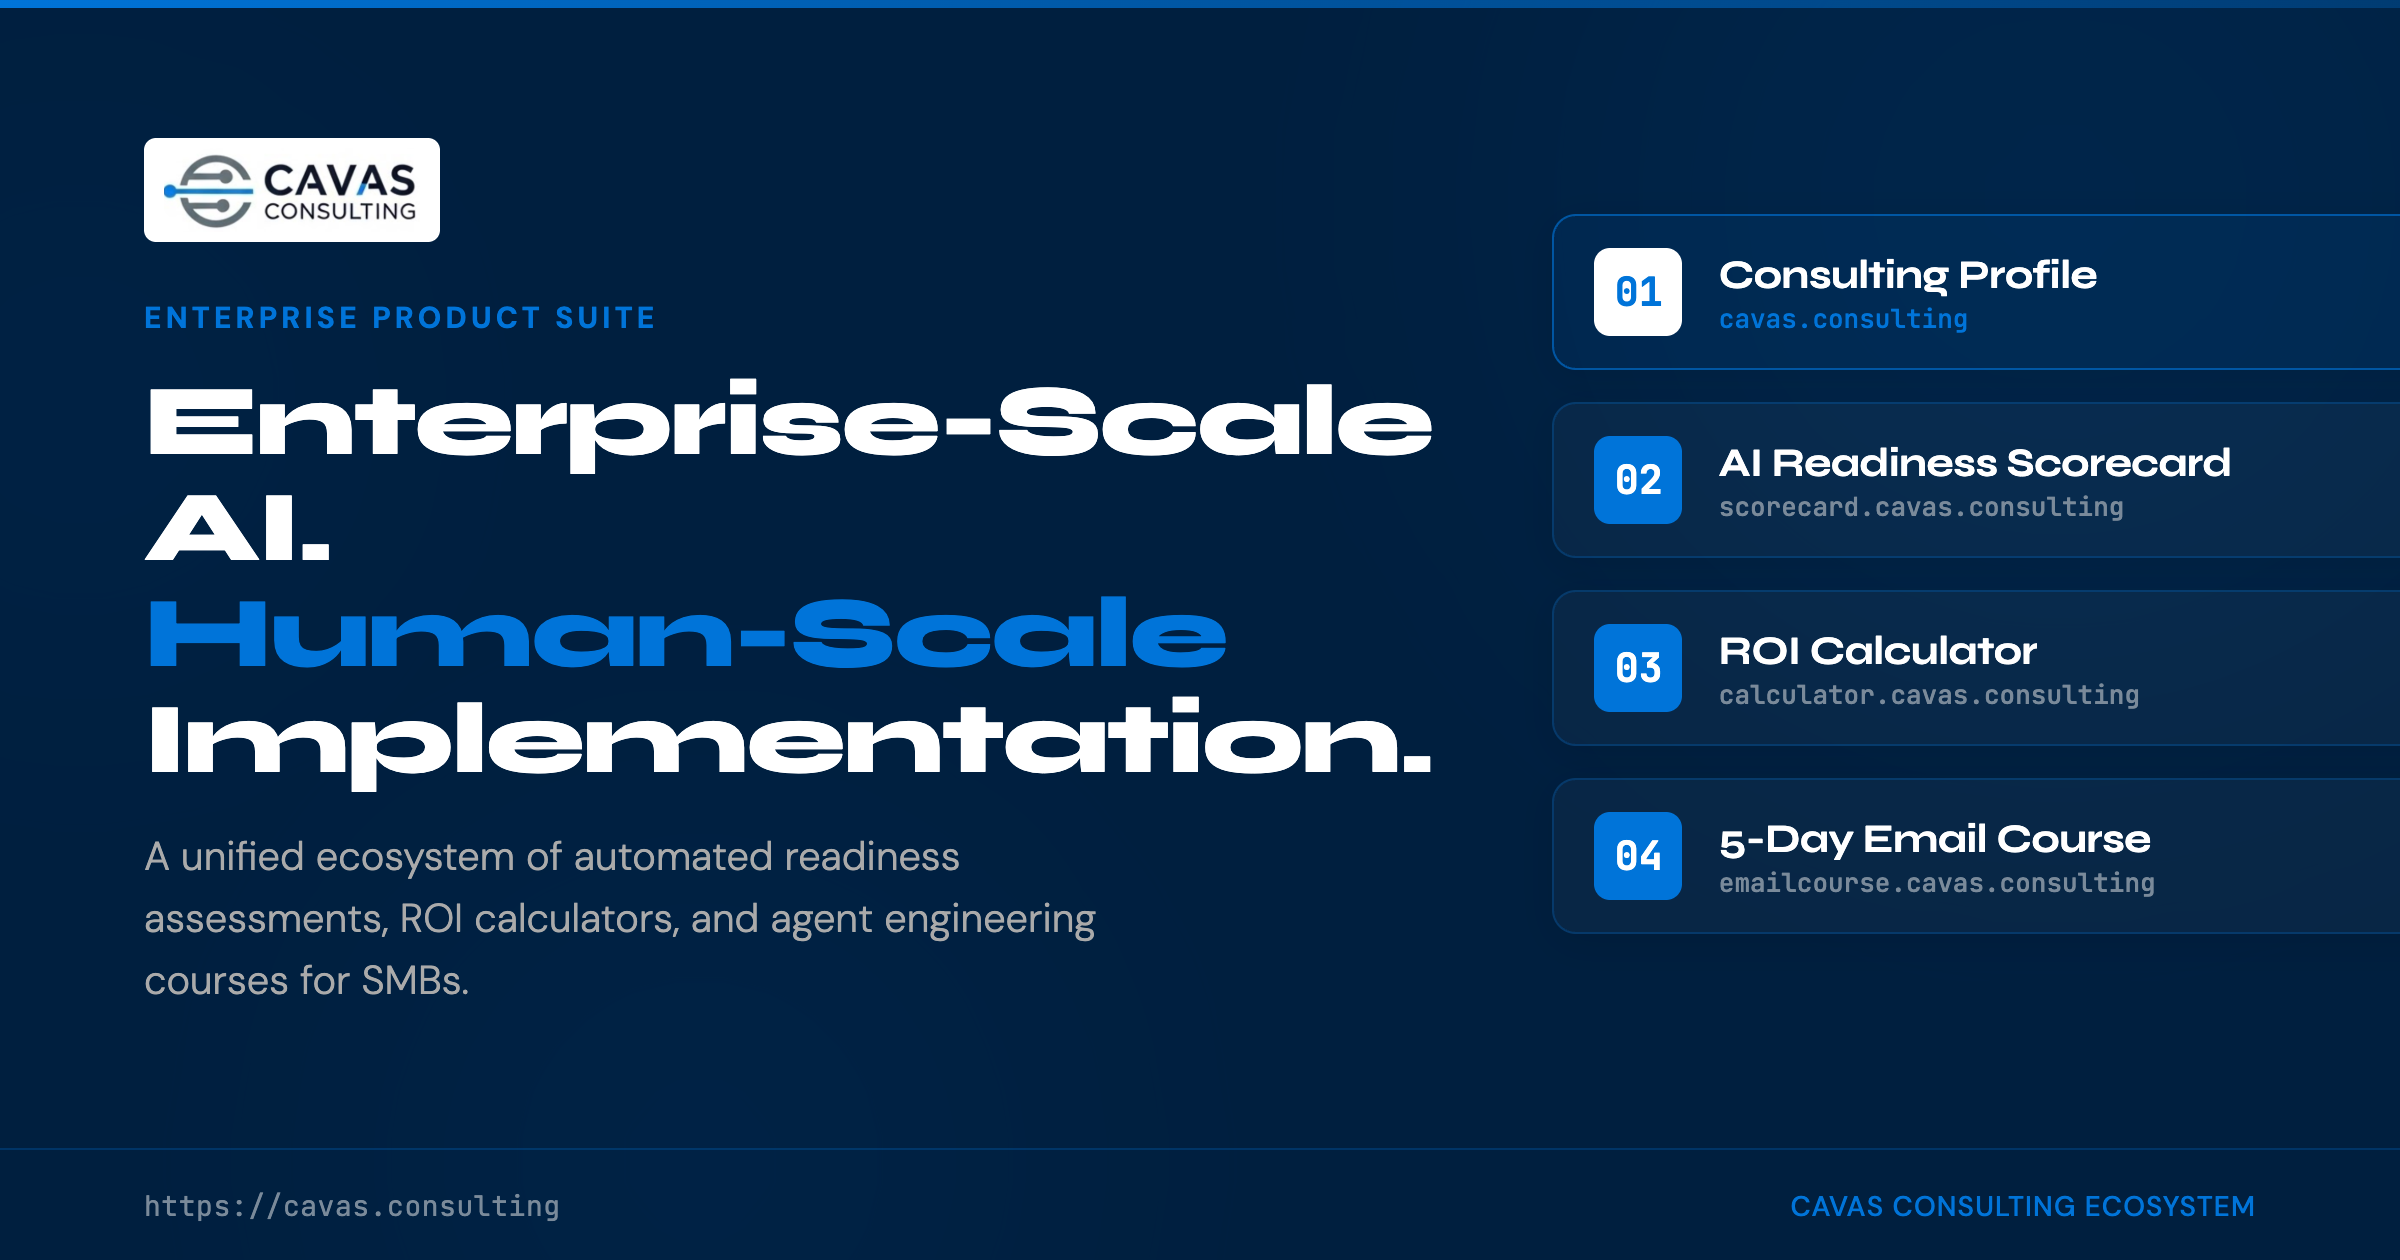
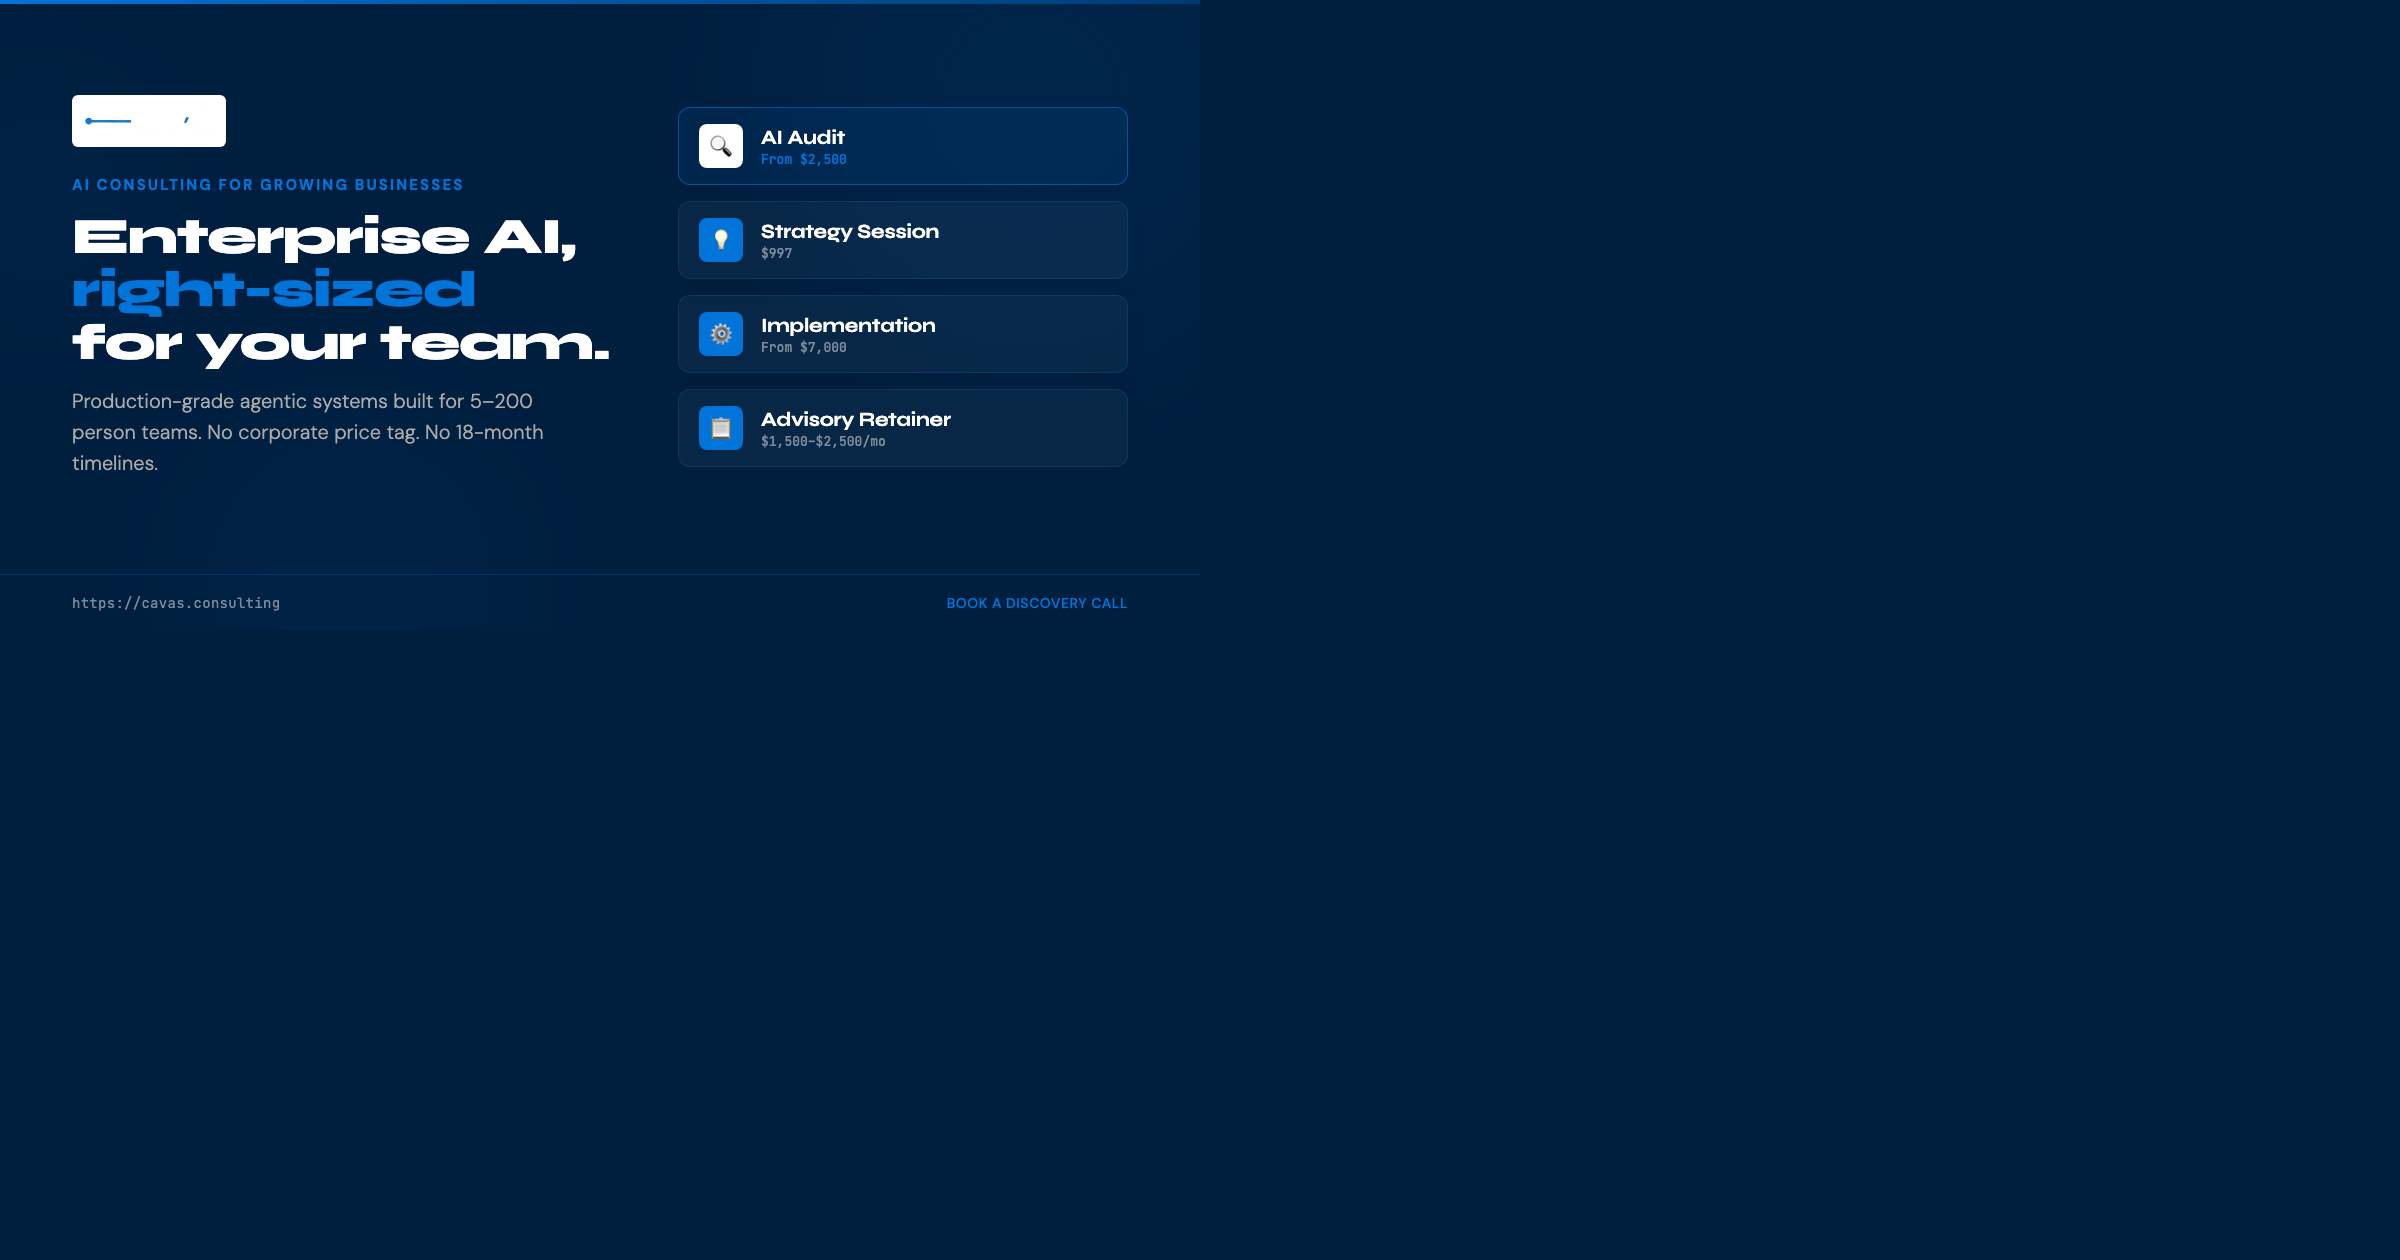
feat: update og image to reflect current landing page state
- Update OG image to showcase standalone consulting website
- Replace 'Enterprise Product Suite' messaging with 'AI Consulting for Growing Businesses'
- Headline: 'Enterprise AI, right-sized for your team'
- Display four current service offerings with pricing (Audit, Strategy, Implementation, Retainer)
- Update tagline to 'Book a Discovery Call'
- Generated at 2400x1260px (2x retina) for optimal social sharing

diff --git a/og-image.html b/og-image.html
@@ -236,40 +236,40 @@
           <img src="./cavas_consulting_logo.png" alt="Cavas Consulting" class="logo" />
         </div>
         <div class="text-block">
-          <p class="eyebrow">Enterprise Product Suite</p>
-          <h1 class="headline">Enterprise-Scale AI.<br /><span>Human-Scale</span><br />Implementation.</h1>
-          <p class="sub">A unified ecosystem of automated readiness assessments, ROI calculators, and agent engineering courses for SMBs.</p>
+          <p class="eyebrow">AI Consulting for Growing Businesses</p>
+          <h1 class="headline">Enterprise AI,<br /><span>right-sized</span><br />for your team.</h1>
+          <p class="sub">Production-grade agentic systems built for 5–200 person teams. No corporate price tag. No 18-month timelines.</p>
         </div>
       </div>
 
-      <!-- Right — 4 Projects -->
+      <!-- Right — 4 Services -->
       <div class="right">
         <div class="suite-card highlight">
-          <div class="card-icon">01</div>
+          <div class="card-icon">🔍</div>
           <div class="card-info">
-            <h4>Consulting Profile</h4>
-            <p>cavas.consulting</p>
+            <h4>AI Audit</h4>
+            <p>From $2,500</p>
           </div>
         </div>
         <div class="suite-card">
-          <div class="card-icon">02</div>
+          <div class="card-icon">💡</div>
           <div class="card-info">
-            <h4>AI Readiness Scorecard</h4>
-            <p>scorecard.cavas.consulting</p>
+            <h4>Strategy Session</h4>
+            <p>$997</p>
           </div>
         </div>
         <div class="suite-card">
-          <div class="card-icon">03</div>
+          <div class="card-icon">⚙</div>
           <div class="card-info">
-            <h4>ROI Calculator</h4>
-            <p>calculator.cavas.consulting</p>
+            <h4>Implementation</h4>
+            <p>From $7,000</p>
           </div>
         </div>
         <div class="suite-card">
-          <div class="card-icon">04</div>
+          <div class="card-icon">📋</div>
           <div class="card-info">
-            <h4>5-Day Email Course</h4>
-            <p>emailcourse.cavas.consulting</p>
+            <h4>Advisory Retainer</h4>
+            <p>$1,500–$2,500/mo</p>
           </div>
         </div>
       </div>
@@ -278,7 +278,7 @@
     <!-- Bottom bar -->
     <div class="bottom-bar">
       <span class="bottom-url">https://cavas.consulting</span>
-      <span class="bottom-tagline">Cavas Consulting Ecosystem</span>
+      <span class="bottom-tagline">Book a Discovery Call</span>
     </div>
   </div>
 </body>
